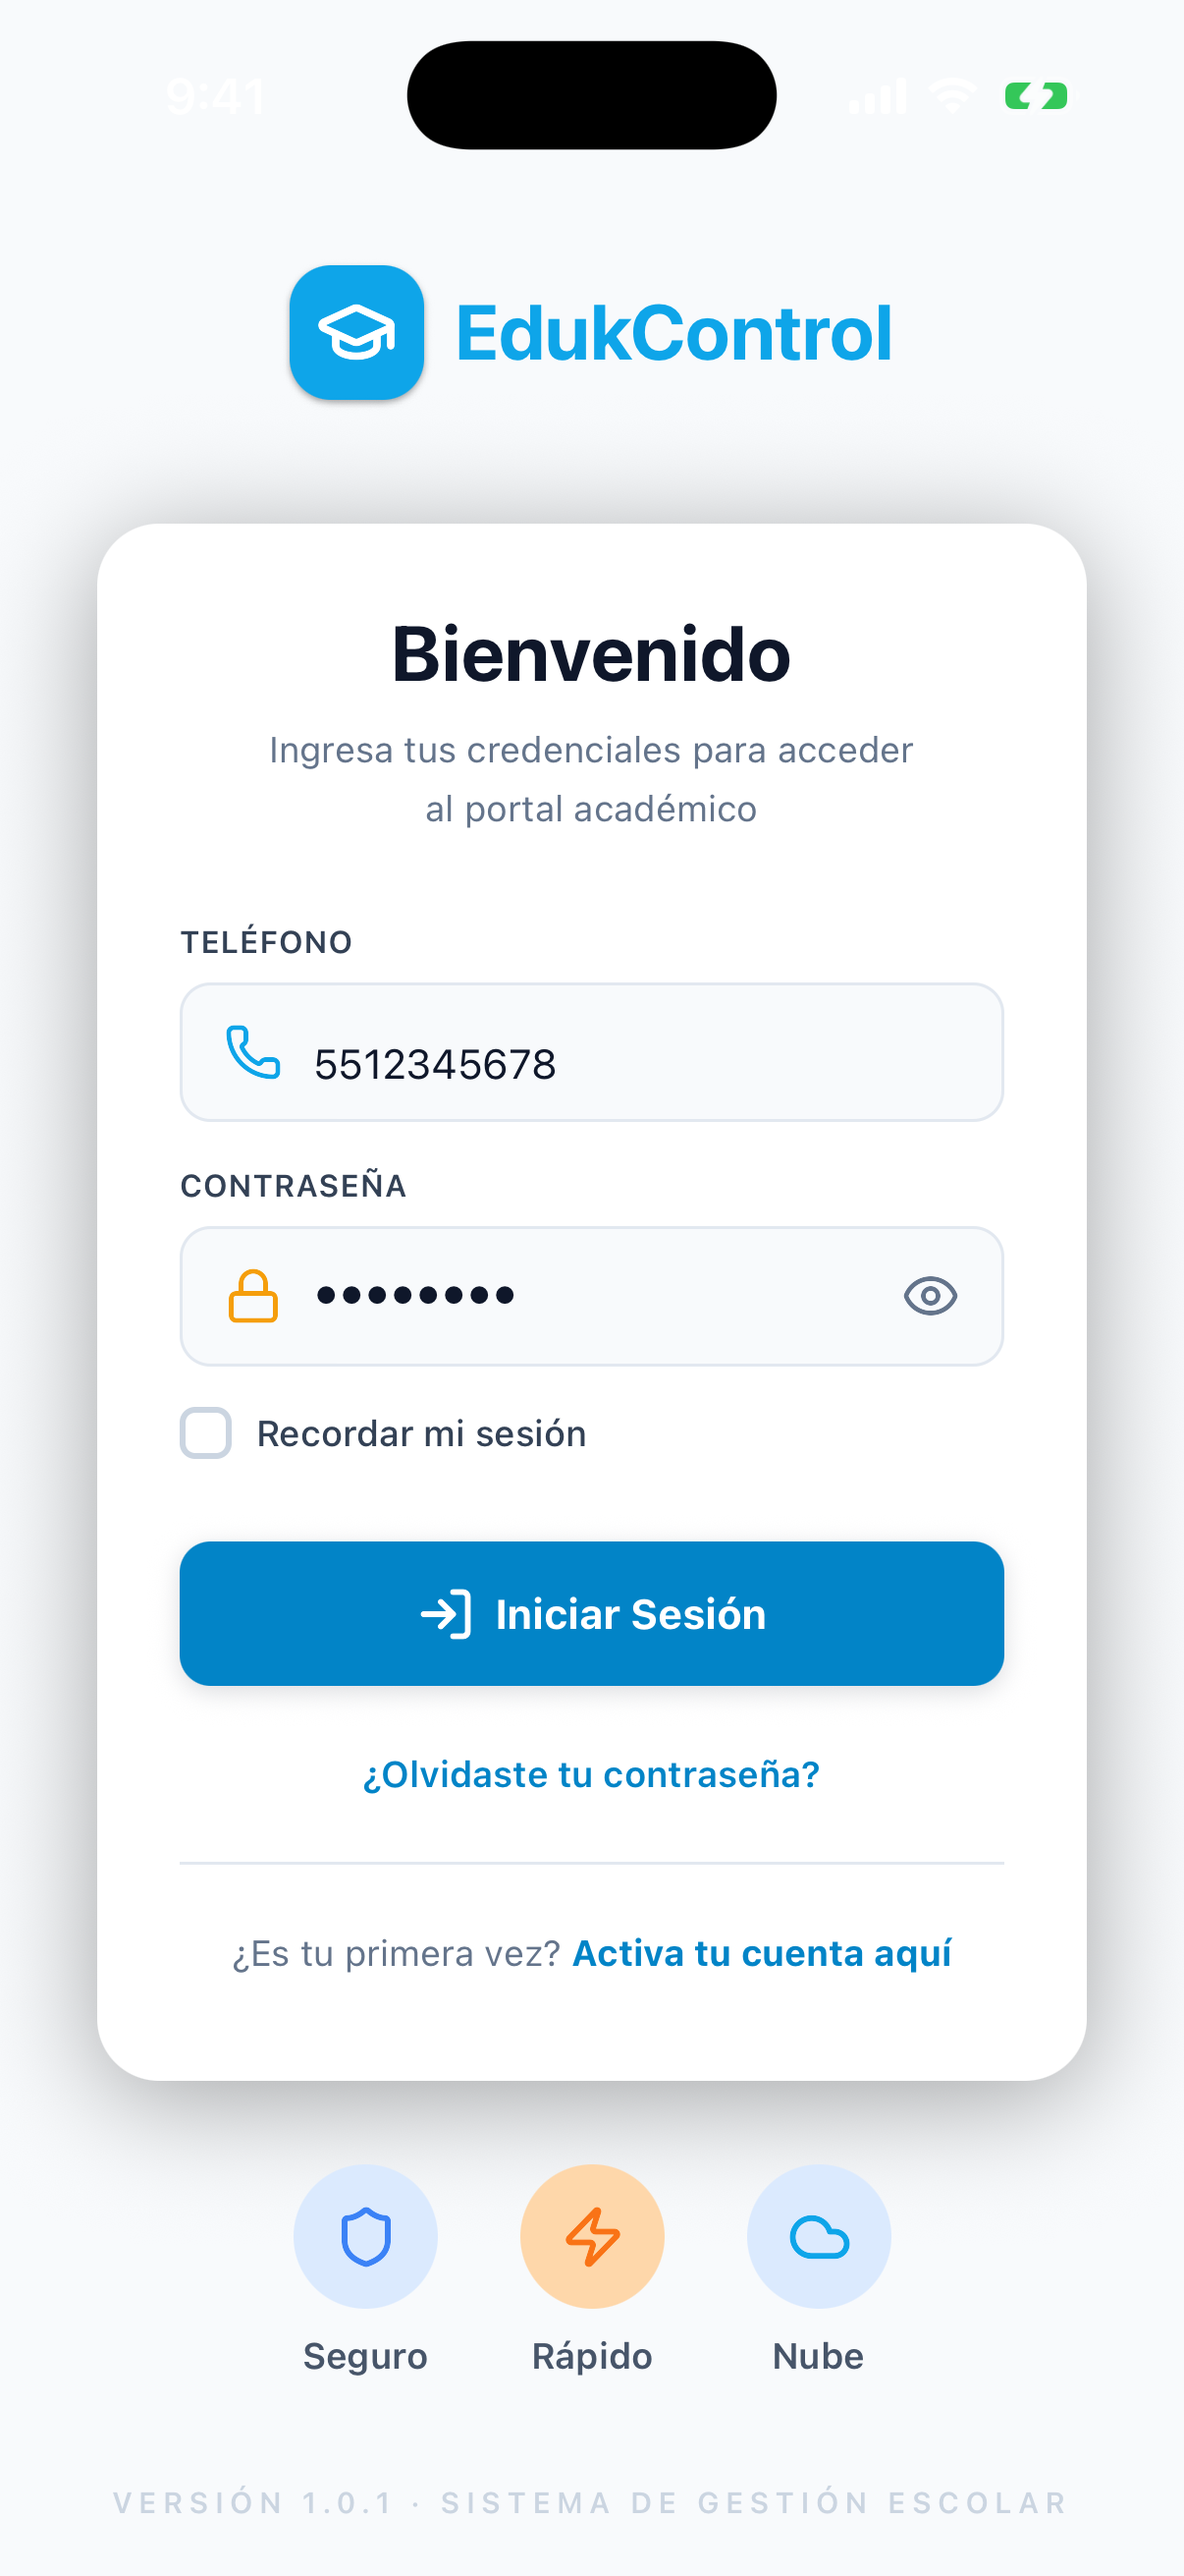
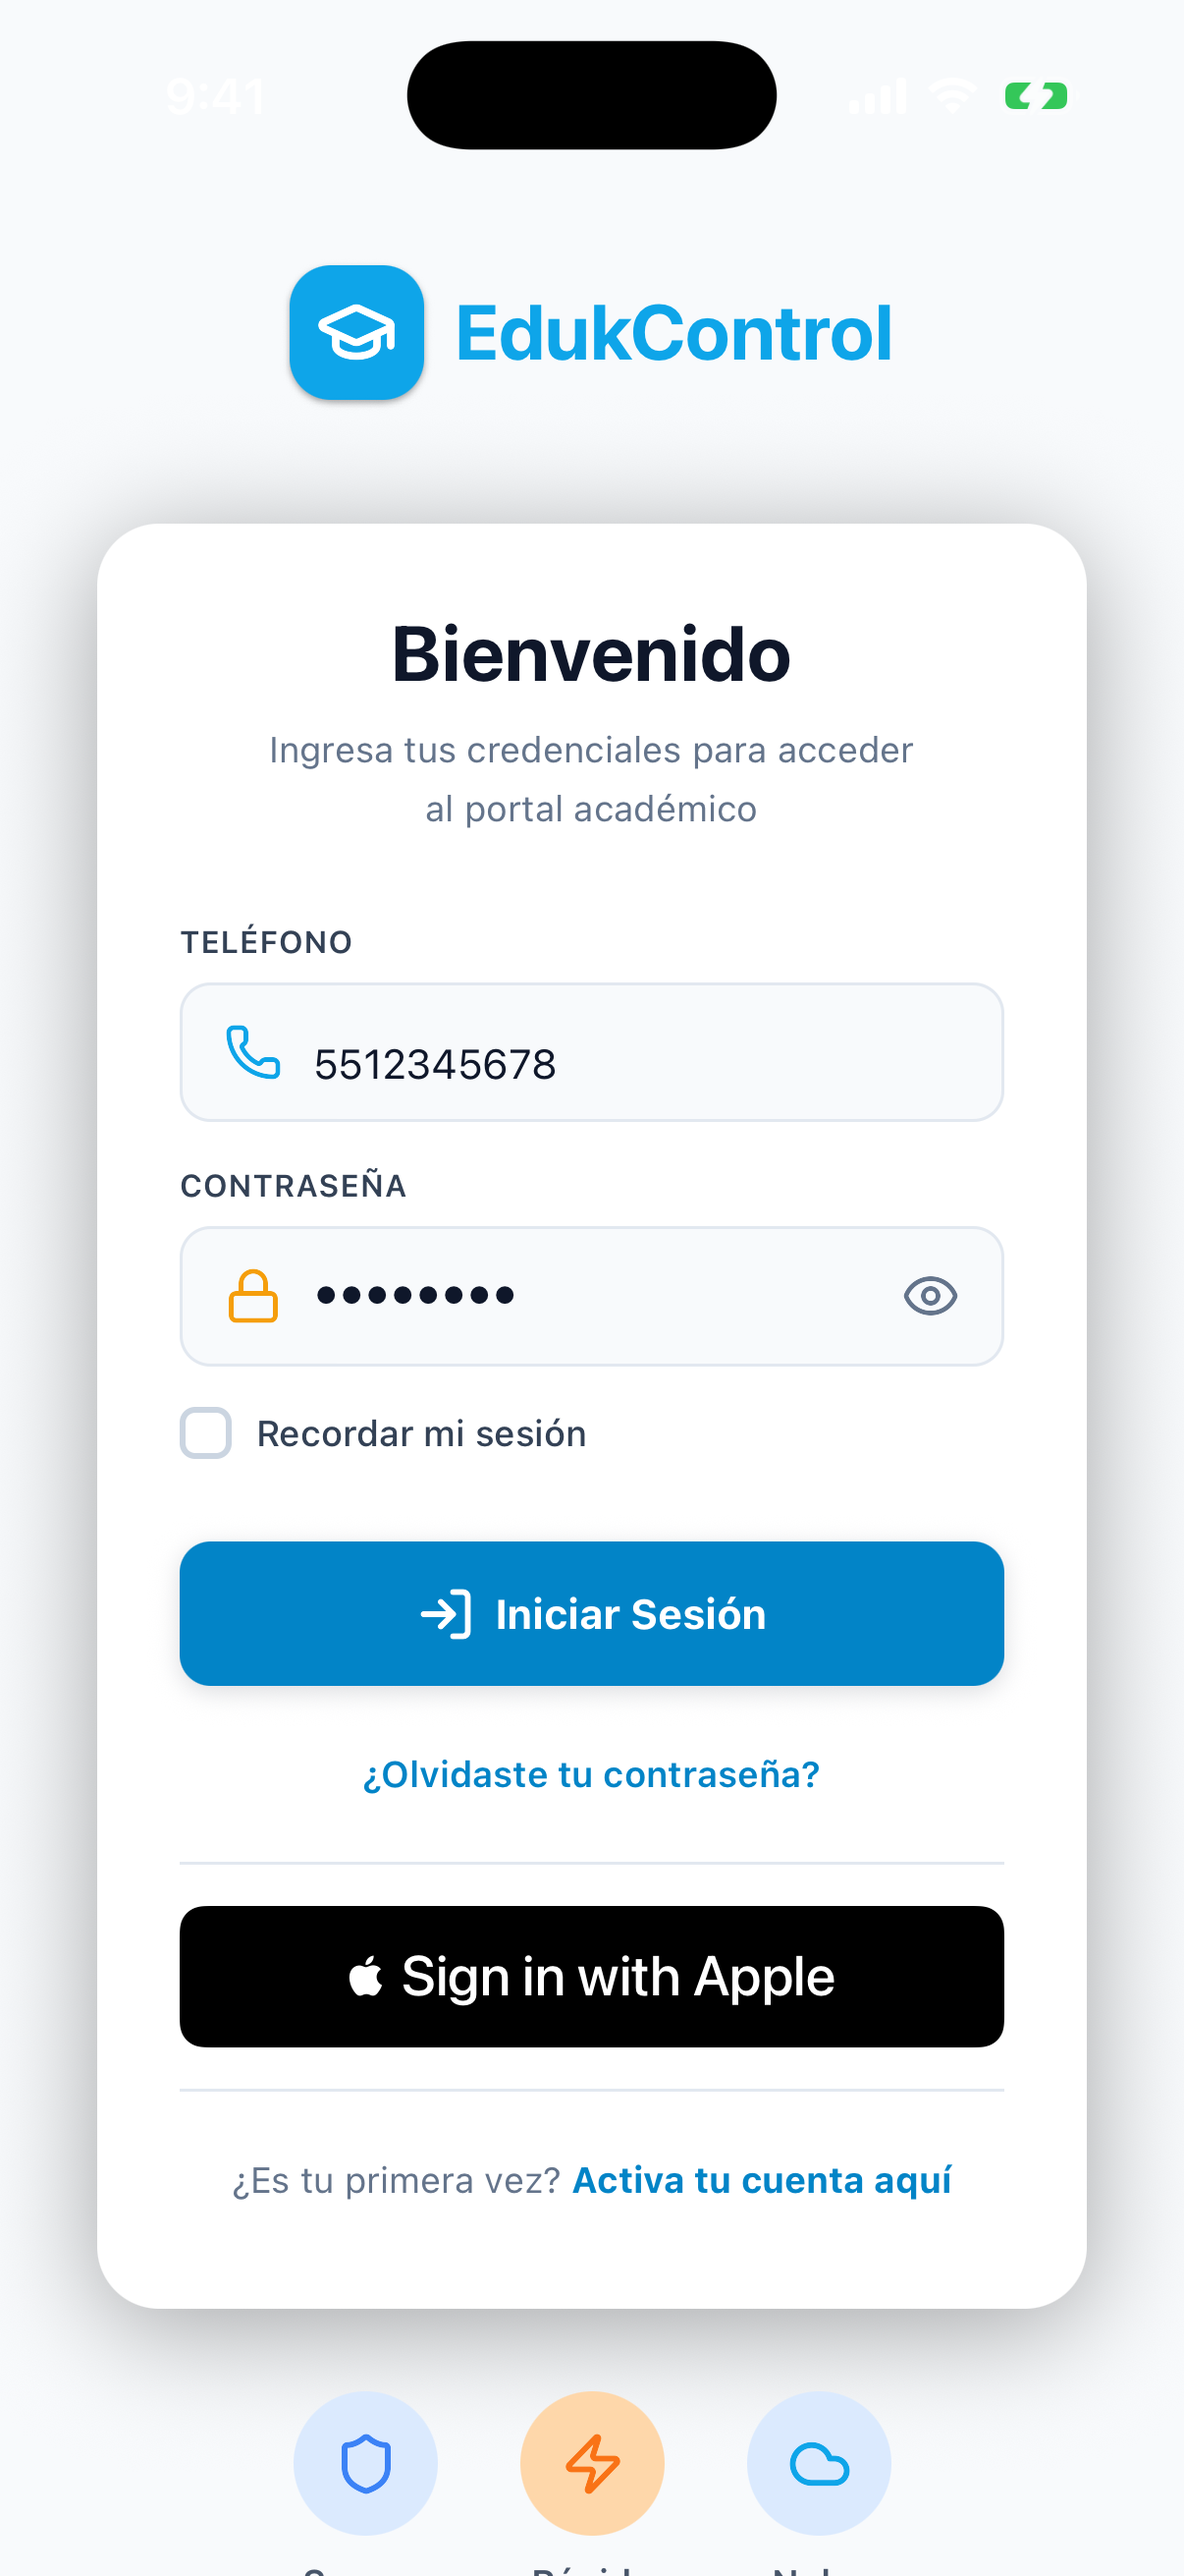
fix(descargar): captura Bienvenido iOS ahora muestra «Continuar con Apple»
- manual-ios-bienvenido.png: recapturada desde un build nativo de
  desarrollo (expo run:ios) — Expo Go no incluye el módulo nativo
  expo-apple-authentication, por lo que el botón Sign in with Apple no
  se renderizaba y la captura contradecía el alt y el paso 6 de la guía.
- ActivationGuide: alt del paso 1 condicional por plataforma (Android
  no tiene botón de Apple).

Changed region(s): [[0.0307, 0.7414, 0.9511, 0.9886]]

diff --git a/src/app/descargar/_components/ActivationGuide.tsx b/src/app/descargar/_components/ActivationGuide.tsx
@@ -67,7 +67,11 @@ export function ActivationGuide({ platform }: { platform: Platform }) {
           <strong>«¿Es tu primera vez? Activa tu cuenta aquí»</strong>.
           <ManualShot
             src={shots.bienvenido}
-            alt="Pantalla Bienvenido de EdukControl con los campos teléfono y contraseña, el botón Continuar con Apple y el enlace ¿Es tu primera vez? Activa tu cuenta aquí"
+            alt={
+              platform === "ios"
+                ? "Pantalla Bienvenido de EdukControl con los campos teléfono y contraseña, el botón Continuar con Apple y el enlace ¿Es tu primera vez? Activa tu cuenta aquí"
+                : "Pantalla Bienvenido de EdukControl con los campos teléfono y contraseña y el enlace ¿Es tu primera vez? Activa tu cuenta aquí"
+            }
             width={shots.width}
             height={shots.height}
           />
